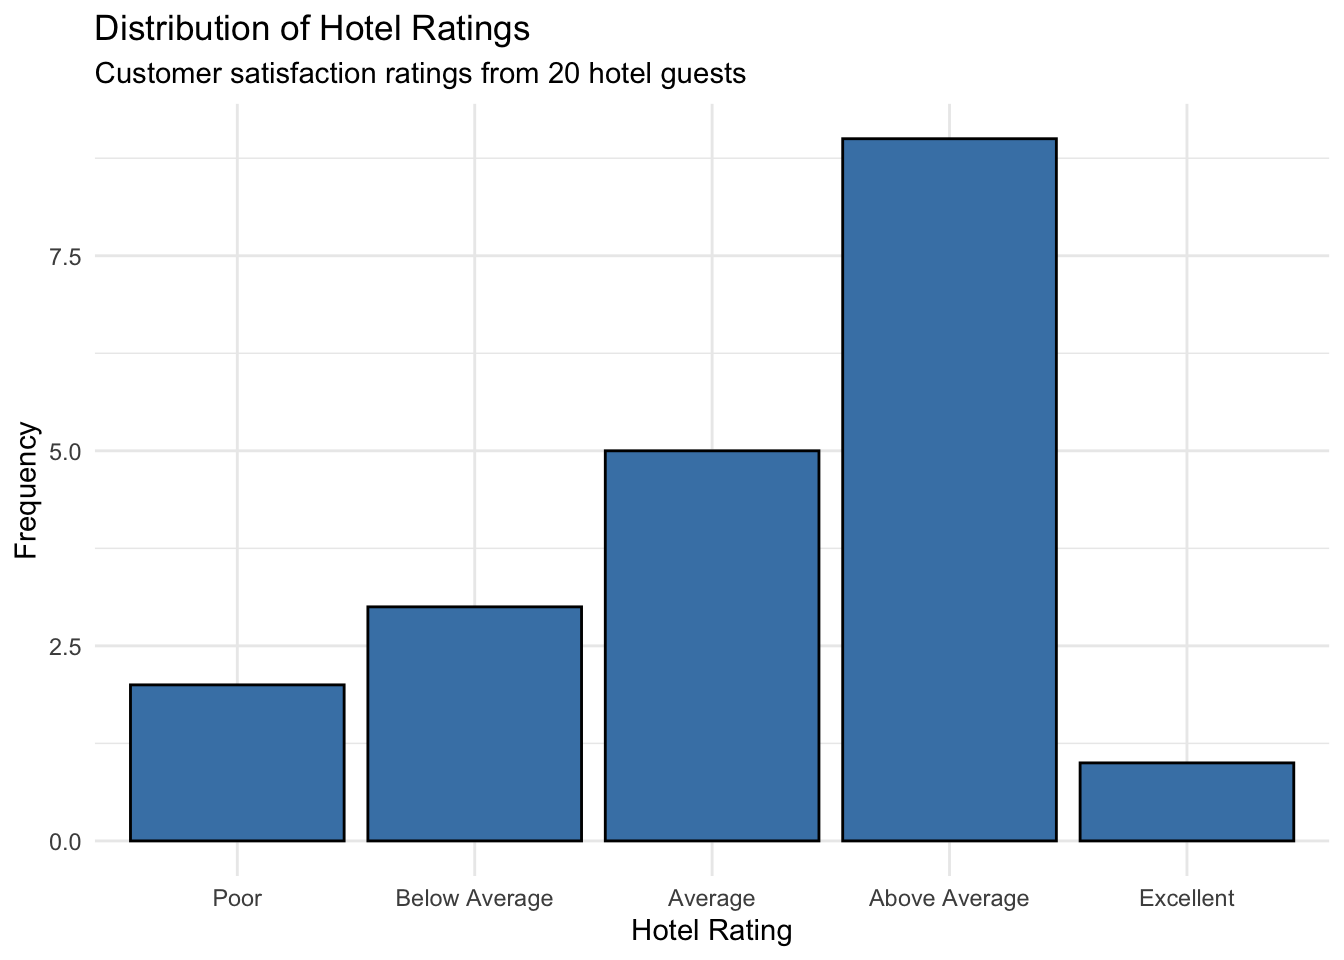
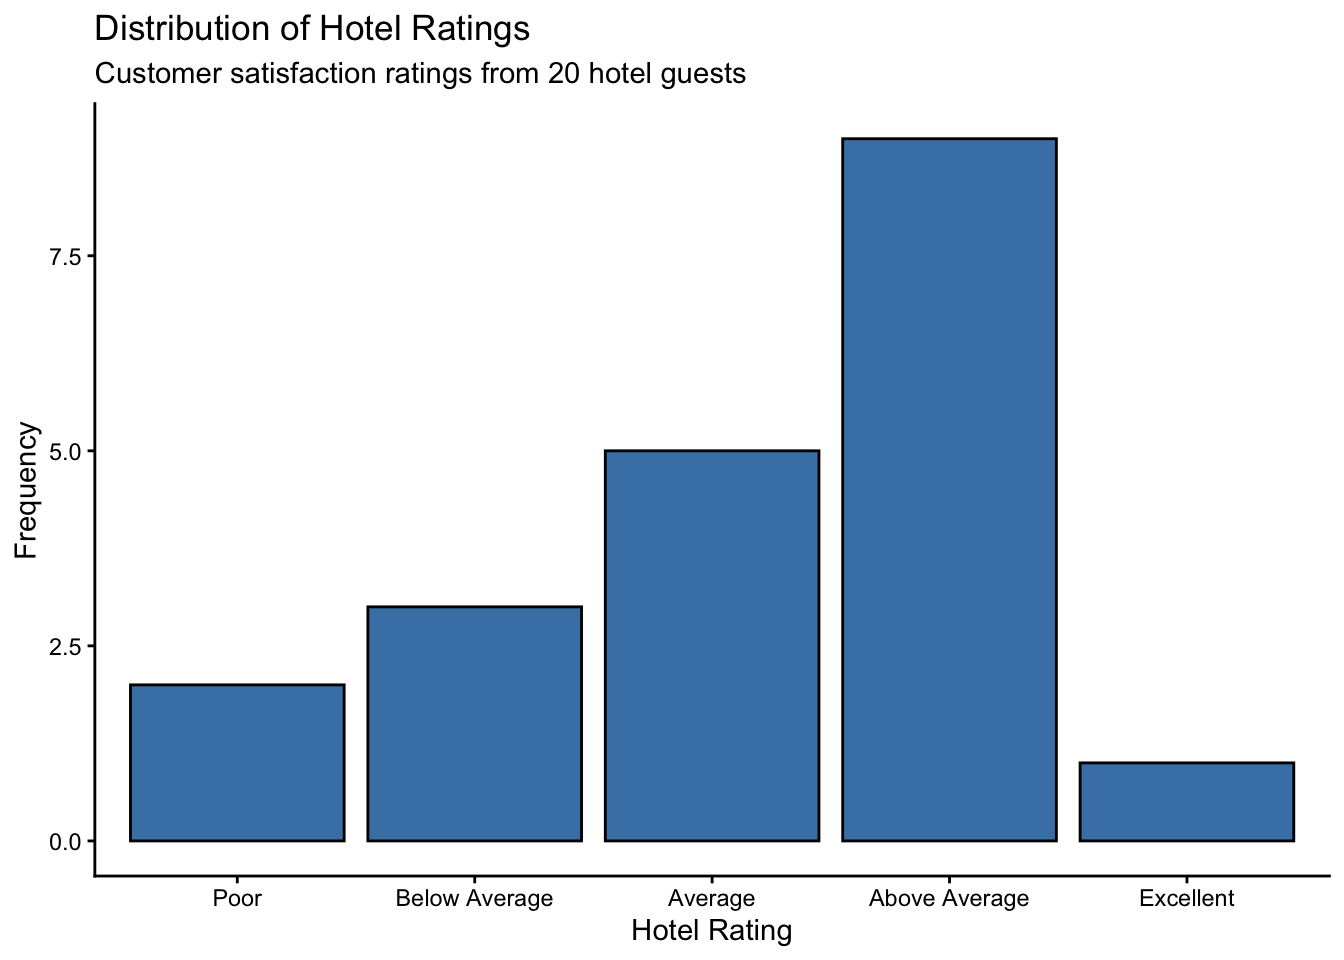
Built site for gh-pages

diff --git a/apr8025/descriptive-statistics.html b/apr8025/descriptive-statistics.html
@@ -665,8 +665,8 @@ They do <strong>not</strong>, by themselves, tell us whether a pattern generaliz
 <p>A common classification is:</p>
 <table class="caption-top table">
 <colgroup>
-<col style="width: 25%">
-<col style="width: 43%">
+<col style="width: 26%">
+<col style="width: 41%">
 <col style="width: 31%">
 </colgroup>
 <thead>
@@ -749,11 +749,12 @@ They do <strong>not</strong>, by themselves, tell us whether a pattern generaliz
 <p>Using <code>dplyr</code>, we can create a cleaner table.</p>
 <div class="cell">
 <div class="code-copy-outer-scaffold"><div class="sourceCode cell-code" id="cb8"><pre class="sourceCode r code-with-copy"><code class="sourceCode r"><span id="cb8-1"><a href="#cb8-1" aria-hidden="true" tabindex="-1"></a><span class="fu">library</span>(tidyverse)</span>
-<span id="cb8-2"><a href="#cb8-2" aria-hidden="true" tabindex="-1"></a></span>
-<span id="cb8-3"><a href="#cb8-3" aria-hidden="true" tabindex="-1"></a>hotel <span class="ot">&lt;-</span> <span class="fu">tibble</span>(<span class="at">rating =</span> satis)</span>
-<span id="cb8-4"><a href="#cb8-4" aria-hidden="true" tabindex="-1"></a></span>
-<span id="cb8-5"><a href="#cb8-5" aria-hidden="true" tabindex="-1"></a>hotel <span class="sc">%&gt;%</span></span>
-<span id="cb8-6"><a href="#cb8-6" aria-hidden="true" tabindex="-1"></a>  <span class="fu">count</span>(rating)</span></code></pre></div><button title="Copy to Clipboard" class="code-copy-button"><i class="bi"></i></button></div>
+<span id="cb8-2"><a href="#cb8-2" aria-hidden="true" tabindex="-1"></a><span class="fu">library</span>(dplyr)</span>
+<span id="cb8-3"><a href="#cb8-3" aria-hidden="true" tabindex="-1"></a></span>
+<span id="cb8-4"><a href="#cb8-4" aria-hidden="true" tabindex="-1"></a>hotel <span class="ot">&lt;-</span> <span class="fu">tibble</span>(<span class="at">rating =</span> satis)</span>
+<span id="cb8-5"><a href="#cb8-5" aria-hidden="true" tabindex="-1"></a></span>
+<span id="cb8-6"><a href="#cb8-6" aria-hidden="true" tabindex="-1"></a>hotel <span class="sc">%&gt;%</span></span>
+<span id="cb8-7"><a href="#cb8-7" aria-hidden="true" tabindex="-1"></a>  <span class="fu">count</span>(rating)</span></code></pre></div><button title="Copy to Clipboard" class="code-copy-button"><i class="bi"></i></button></div>
 <div class="cell-output cell-output-stdout">
 <pre><code># A tibble: 5 × 2
   rating            n
@@ -768,10 +769,11 @@ They do <strong>not</strong>, by themselves, tell us whether a pattern generaliz
 <p>Using <code>KableExtra</code>, we can format the table for better presentation.</p>
 <div class="cell">
 <div class="code-copy-outer-scaffold"><div class="sourceCode cell-code" id="cb10"><pre class="sourceCode r code-with-copy"><code class="sourceCode r"><span id="cb10-1"><a href="#cb10-1" aria-hidden="true" tabindex="-1"></a><span class="fu">library</span>(kableExtra)</span>
-<span id="cb10-2"><a href="#cb10-2" aria-hidden="true" tabindex="-1"></a>hotel <span class="sc">%&gt;%</span></span>
-<span id="cb10-3"><a href="#cb10-3" aria-hidden="true" tabindex="-1"></a>  <span class="fu">count</span>(rating) <span class="sc">%&gt;%</span> </span>
-<span id="cb10-4"><a href="#cb10-4" aria-hidden="true" tabindex="-1"></a>  <span class="fu">kbl</span>() <span class="sc">%&gt;%</span></span>
-<span id="cb10-5"><a href="#cb10-5" aria-hidden="true" tabindex="-1"></a>  <span class="fu">kable_styling</span>(<span class="st">"hover"</span>)</span></code></pre></div><button title="Copy to Clipboard" class="code-copy-button"><i class="bi"></i></button></div>
+<span id="cb10-2"><a href="#cb10-2" aria-hidden="true" tabindex="-1"></a></span>
+<span id="cb10-3"><a href="#cb10-3" aria-hidden="true" tabindex="-1"></a>hotel <span class="sc">%&gt;%</span></span>
+<span id="cb10-4"><a href="#cb10-4" aria-hidden="true" tabindex="-1"></a>  <span class="fu">count</span>(rating) <span class="sc">%&gt;%</span> </span>
+<span id="cb10-5"><a href="#cb10-5" aria-hidden="true" tabindex="-1"></a>  <span class="fu">kbl</span>() <span class="sc">%&gt;%</span></span>
+<span id="cb10-6"><a href="#cb10-6" aria-hidden="true" tabindex="-1"></a>  <span class="fu">kable_styling</span>(<span class="st">"hover"</span>)</span></code></pre></div><button title="Copy to Clipboard" class="code-copy-button"><i class="bi"></i></button></div>
 <div class="cell-output-display">
 <table class="table table-hover caption-top table-sm table-striped small">
 <thead>
@@ -1073,7 +1075,7 @@ They do <strong>not</strong>, by themselves, tell us whether a pattern generaliz
 <span id="cb22-4"><a href="#cb22-4" aria-hidden="true" tabindex="-1"></a>       <span class="at">subtitle =</span> <span class="st">"Customer satisfaction ratings from 20 hotel guests"</span>,</span>
 <span id="cb22-5"><a href="#cb22-5" aria-hidden="true" tabindex="-1"></a>       <span class="at">x =</span> <span class="st">"Hotel Rating"</span>,</span>
 <span id="cb22-6"><a href="#cb22-6" aria-hidden="true" tabindex="-1"></a>       <span class="at">y =</span> <span class="st">"Frequency"</span>) <span class="sc">+</span></span>
-<span id="cb22-7"><a href="#cb22-7" aria-hidden="true" tabindex="-1"></a>  <span class="fu">theme_minimal</span>()</span></code></pre></div><button title="Copy to Clipboard" class="code-copy-button"><i class="bi"></i></button></div>
+<span id="cb22-7"><a href="#cb22-7" aria-hidden="true" tabindex="-1"></a>  <span class="fu">theme_classic</span>()</span></code></pre></div><button title="Copy to Clipboard" class="code-copy-button"><i class="bi"></i></button></div>
 <div class="cell-output-display">
 <div>
 <figure class="figure">
@@ -1215,7 +1217,6 @@ They do <strong>not</strong>, by themselves, tell us whether a pattern generaliz
 <li><strong>spread</strong> — how widely observations vary,</li>
 <li><strong>shape</strong> — symmetric or skewed,</li>
 <li><strong>modality</strong> — one peak or several peaks,</li>
-<li><strong>unusual observations</strong> — possible outliers.</li>
 </ul>
 <div class="cell">
 <div class="cell-output-display">
@@ -1241,7 +1242,7 @@ They do <strong>not</strong>, by themselves, tell us whether a pattern generaliz
 <span id="cb29-3"><a href="#cb29-3" aria-hidden="true" tabindex="-1"></a>symmetric_data <span class="ot">&lt;-</span> <span class="fu">rnorm</span>(<span class="dv">1000</span>)</span>
 <span id="cb29-4"><a href="#cb29-4" aria-hidden="true" tabindex="-1"></a>right_skewed_data <span class="ot">&lt;-</span> <span class="fu">rexp</span>(<span class="dv">1000</span>)</span>
 <span id="cb29-5"><a href="#cb29-5" aria-hidden="true" tabindex="-1"></a></span>
-<span id="cb29-6"><a href="#cb29-6" aria-hidden="true" tabindex="-1"></a><span class="fu">tibble</span>(<span class="at">value =</span> symmetric_data) <span class="sc">|&gt;</span></span>
+<span id="cb29-6"><a href="#cb29-6" aria-hidden="true" tabindex="-1"></a><span class="fu">tibble</span>(<span class="at">value =</span> symmetric_data) <span class="sc">%&gt;%</span></span>
 <span id="cb29-7"><a href="#cb29-7" aria-hidden="true" tabindex="-1"></a>  <span class="fu">ggplot</span>(<span class="fu">aes</span>(<span class="at">x =</span> value)) <span class="sc">+</span></span>
 <span id="cb29-8"><a href="#cb29-8" aria-hidden="true" tabindex="-1"></a>  <span class="fu">geom_histogram</span>(<span class="at">bins =</span> <span class="dv">30</span>) <span class="sc">+</span></span>
 <span id="cb29-9"><a href="#cb29-9" aria-hidden="true" tabindex="-1"></a>  <span class="fu">labs</span>(<span class="at">title =</span> <span class="st">"Approximately Symmetric Distribution"</span>) <span class="sc">+</span></span>
@@ -1255,7 +1256,7 @@ They do <strong>not</strong>, by themselves, tell us whether a pattern generaliz
 </div>
 </div>
 <div class="cell">
-<div class="code-copy-outer-scaffold"><div class="sourceCode cell-code" id="cb30"><pre class="sourceCode r code-with-copy"><code class="sourceCode r"><span id="cb30-1"><a href="#cb30-1" aria-hidden="true" tabindex="-1"></a><span class="fu">tibble</span>(<span class="at">value =</span> right_skewed_data) <span class="sc">|&gt;</span></span>
+<div class="code-copy-outer-scaffold"><div class="sourceCode cell-code" id="cb30"><pre class="sourceCode r code-with-copy"><code class="sourceCode r"><span id="cb30-1"><a href="#cb30-1" aria-hidden="true" tabindex="-1"></a><span class="fu">tibble</span>(<span class="at">value =</span> right_skewed_data) <span class="sc">%&gt;%</span></span>
 <span id="cb30-2"><a href="#cb30-2" aria-hidden="true" tabindex="-1"></a>  <span class="fu">ggplot</span>(<span class="fu">aes</span>(<span class="at">x =</span> value)) <span class="sc">+</span></span>
 <span id="cb30-3"><a href="#cb30-3" aria-hidden="true" tabindex="-1"></a>  <span class="fu">geom_histogram</span>(<span class="at">bins =</span> <span class="dv">30</span>) <span class="sc">+</span></span>
 <span id="cb30-4"><a href="#cb30-4" aria-hidden="true" tabindex="-1"></a>  <span class="fu">labs</span>(<span class="at">title =</span> <span class="st">"Right-Skewed Distribution"</span>) <span class="sc">+</span></span>

diff --git a/apr3044/exploratory-data-analysis.html b/apr3044/exploratory-data-analysis.html
@@ -863,15 +863,16 @@ $ VEHICLE.TYPE.CODE.5           &lt;chr&gt; "", "", "", "", "", "", "", "", "", 
 <p>Do not immediately scroll through thousands of rows. Start with structure.</p>
 <div class="cell">
 <div class="code-copy-outer-scaffold"><div class="sourceCode cell-code" id="cb11"><pre class="sourceCode r code-with-copy"><code class="sourceCode r"><span id="cb11-1"><a href="#cb11-1" aria-hidden="true" tabindex="-1"></a><span class="fu">library</span>(janitor)</span>
-<span id="cb11-2"><a href="#cb11-2" aria-hidden="true" tabindex="-1"></a>collisions_raw <span class="sc">%&gt;%</span> </span>
-<span id="cb11-3"><a href="#cb11-3" aria-hidden="true" tabindex="-1"></a>  <span class="fu">clean_names</span>() <span class="sc">%&gt;%</span></span>
-<span id="cb11-4"><a href="#cb11-4" aria-hidden="true" tabindex="-1"></a>  <span class="fu">select</span>(</span>
-<span id="cb11-5"><a href="#cb11-5" aria-hidden="true" tabindex="-1"></a>    collision_id, crash_date, crash_time, borough, zip_code,</span>
-<span id="cb11-6"><a href="#cb11-6" aria-hidden="true" tabindex="-1"></a>    latitude, longitude, on_street_name,</span>
-<span id="cb11-7"><a href="#cb11-7" aria-hidden="true" tabindex="-1"></a>    number_of_persons_injured, number_of_persons_killed,</span>
-<span id="cb11-8"><a href="#cb11-8" aria-hidden="true" tabindex="-1"></a>    contributing_factor_vehicle_1, vehicle_type_code_1</span>
-<span id="cb11-9"><a href="#cb11-9" aria-hidden="true" tabindex="-1"></a>  ) <span class="sc">%&gt;%</span></span>
-<span id="cb11-10"><a href="#cb11-10" aria-hidden="true" tabindex="-1"></a>  <span class="fu">glimpse</span>()</span></code></pre></div><button title="Copy to Clipboard" class="code-copy-button"><i class="bi"></i></button></div>
+<span id="cb11-2"><a href="#cb11-2" aria-hidden="true" tabindex="-1"></a></span>
+<span id="cb11-3"><a href="#cb11-3" aria-hidden="true" tabindex="-1"></a>collisions_raw <span class="sc">%&gt;%</span> </span>
+<span id="cb11-4"><a href="#cb11-4" aria-hidden="true" tabindex="-1"></a>  <span class="fu">clean_names</span>() <span class="sc">%&gt;%</span></span>
+<span id="cb11-5"><a href="#cb11-5" aria-hidden="true" tabindex="-1"></a>  <span class="fu">select</span>(</span>
+<span id="cb11-6"><a href="#cb11-6" aria-hidden="true" tabindex="-1"></a>    collision_id, crash_date, crash_time, borough, zip_code,</span>
+<span id="cb11-7"><a href="#cb11-7" aria-hidden="true" tabindex="-1"></a>    latitude, longitude, on_street_name,</span>
+<span id="cb11-8"><a href="#cb11-8" aria-hidden="true" tabindex="-1"></a>    number_of_persons_injured, number_of_persons_killed,</span>
+<span id="cb11-9"><a href="#cb11-9" aria-hidden="true" tabindex="-1"></a>    contributing_factor_vehicle_1, vehicle_type_code_1</span>
+<span id="cb11-10"><a href="#cb11-10" aria-hidden="true" tabindex="-1"></a>  ) <span class="sc">%&gt;%</span></span>
+<span id="cb11-11"><a href="#cb11-11" aria-hidden="true" tabindex="-1"></a>  <span class="fu">glimpse</span>()</span></code></pre></div><button title="Copy to Clipboard" class="code-copy-button"><i class="bi"></i></button></div>
 <div class="cell-output cell-output-stdout">
 <pre><code>Rows: 2,269,187
 Columns: 12
@@ -1081,7 +1082,7 @@ Warning
 <p>Therefore, this is usually a poor default:</p>
 <div class="cell">
 <div class="code-copy-outer-scaffold"><div class="sourceCode cell-code" id="cb28"><pre class="sourceCode r code-with-copy"><code class="sourceCode r"><span id="cb28-1"><a href="#cb28-1" aria-hidden="true" tabindex="-1"></a><span class="co"># Do NOT automatically do this to the entire dataset.</span></span>
-<span id="cb28-2"><a href="#cb28-2" aria-hidden="true" tabindex="-1"></a>collisions <span class="ot">&lt;-</span> <span class="fu">drop_na</span>(collisions)</span></code></pre></div><button title="Copy to Clipboard" class="code-copy-button"><i class="bi"></i></button></div>
+<span id="cb28-2"><a href="#cb28-2" aria-hidden="true" tabindex="-1"></a><span class="co"># collisions &lt;- drop_na(collisions)</span></span></code></pre></div><button title="Copy to Clipboard" class="code-copy-button"><i class="bi"></i></button></div>
 </div>
 <p>Instead, remove missing values <strong>only when a specific analysis requires that variable</strong>.</p>
 <div class="cell">
